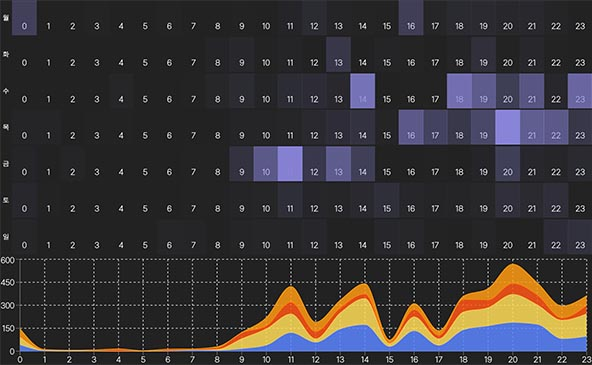
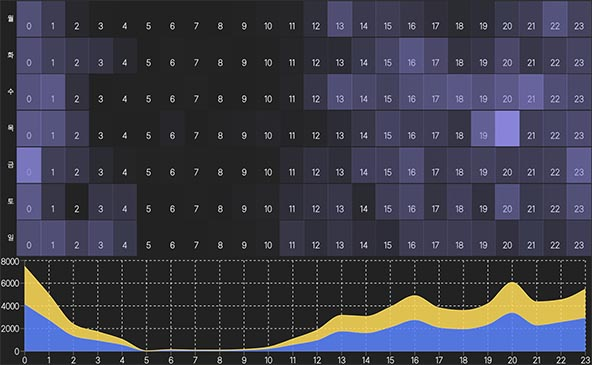
update:main functionCard Img Change

diff --git a/src/components/sections/main/MainDescriptionSection.tsx b/src/components/sections/main/MainDescriptionSection.tsx
@@ -71,6 +71,7 @@ const functionCardData = [
     h3: "채팅방끼리 비교 해볼까?",
     p: "대화 로그 데이터를 종합적으로 분석한 결과를 시각화하여 보여주는 화면입니다. 대화량, 대화 시간대, 답장 속도, 대화 키워드 등 다양한 정보를 종합하여 분석한 결과를 그래프, 차트, 표 등 다양한 방식으로 표시합니다.",
     img: `${process.env.PUBLIC_URL}/images/graph/ChatRoomCompareGraph.jpg`,
+    darkImg: `${process.env.PUBLIC_URL}/images/graph/ChatRoomCompareGraphDark.jpg`,
   },
   {
     id: 2,
@@ -78,6 +79,7 @@ const functionCardData = [
     h3: "우리 카톡 언제 많이 했더라?",
     p: "각 기간에 대한 대화량을 시각적으로 표현하여, 대화 활동이 어느 기간에 집중되어 있는지 알 수 있습니다. 이를 통해 특정 기간에 대화가 활발하게 이루어지는 경향이나 트렌드를 파악할 수 있습니다.",
     img: `${process.env.PUBLIC_URL}/images/graph/ChatVolumeByPeriodGraph.jpg`,
+    darkImg: `${process.env.PUBLIC_URL}/images/graph/ChatVolumeByPeriodGraphDark.jpg`,
   },
   {
     id: 3,
@@ -85,6 +87,7 @@ const functionCardData = [
     h3: "누가 말이 제일 많을까?",
     p: "대화에 참여한 인원들 간의 대화량을 나타냅니다. 이를 통해 각각의 인원이 대화에 얼마나 기여하였는지, 대화량이 많은 인원이 어느 정도인지 등을 파악할 수 있습니다.",
     img: `${process.env.PUBLIC_URL}/images/graph/ChatRateGraph.jpg`,
+    darkImg: `${process.env.PUBLIC_URL}/images/graph/ChatRateGraphDark.jpg`,
   },
 
   {
@@ -93,6 +96,7 @@ const functionCardData = [
     h3: "우리의 문자 습관은?",
     p: "대화 내용에서 자주 등장하는 단어나 문구를 나타냅니다. 이를 통해 대화의 주요 주제나 키워드를 파악할 수 있으며, 이를 활용하여 대화의 내용을 더욱 효율적으로 파악하고 관리할 수 있습니다.",
     img: `${process.env.PUBLIC_URL}/images/graph/keywordGraph.jpg`,
+    darkImg: `${process.env.PUBLIC_URL}/images/graph/keywordGraphDark.jpg`,
   },
   {
     id: 5,
@@ -100,6 +104,7 @@ const functionCardData = [
     h3: "누구 답장이 제일 빠르지?",
     p: "상대방이 보낸 메시지에 대한 본인의 답장 속도를 나타냅니다. 이를 통해 메시지에 대한 대응속도가 어느정도인지, 더 빠른 대응이 필요한 상황이 있는지 등을 파악할 수 있습니다.",
     img: `${process.env.PUBLIC_URL}/images/graph/ReplySpeedGraph.jpg`,
+    darkImg: `${process.env.PUBLIC_URL}/images/graph/ReplySpeedGraphDark.jpg`,
   },
   {
     id: 6,
@@ -107,6 +112,7 @@ const functionCardData = [
     h3: "몇 시에 카톡하면 좋아?",
     p: "대화가 발생한 시간대를 나타냅니다. 이를 통해 대화가 활발히 이루어지는 시간대, 그리고 상대방과의 대화 타이밍을 파악할 수 있습니다.",
     img: `${process.env.PUBLIC_URL}/images/graph/ChatVolumeByHourlyGraph.jpg`,
+    darkImg: `${process.env.PUBLIC_URL}/images/graph/ChatVolumeByHourlyGraphDark.jpg`,
   },
 ];
 
@@ -124,7 +130,7 @@ const MainDescriptionSection = ({ moveScrollPosition }: Props) => {
           <DescriptionBox>
             <Title subject>{data.subject}</Title>
             <SubTitle>{data.h3}</SubTitle>
-            <Img src={data.img} />
+            <Img src={isDarkMode ? data.darkImg : data.img} />
           </DescriptionBox>
         </CardBox>
       ))}
